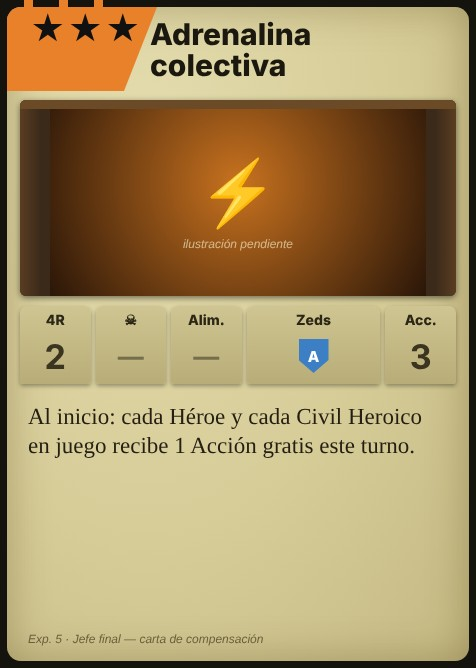
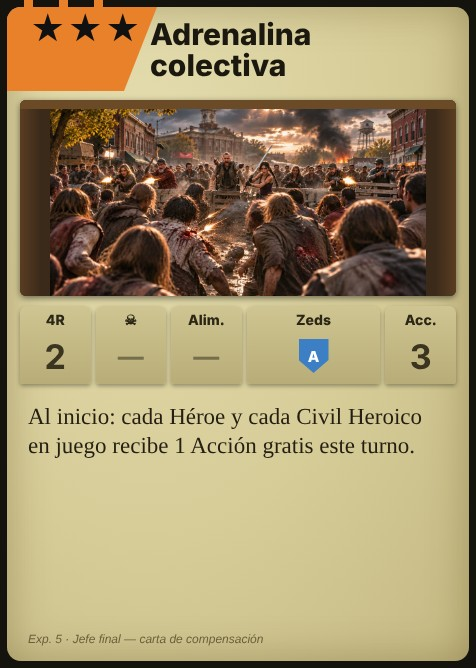
Exp. 5: ilustración de «Adrenalina colectiva»; BUILD_TIME, CHANGELOG y caché v79
Claude-Session: https://claude.ai/code/session_01KmRiLbWWzhUthpc2eQKnLk

Changed region(s): [[0.0882, 0.1497, 0.9118, 0.4491]]

diff --git a/sw.js b/sw.js
@@ -1,7 +1,7 @@
 /* Service worker: permite instalar la web como app y jugar sin conexión.
    Código (html/js/css): red primero, con copia local de reserva. Imágenes y audio: caché primero. */
 'use strict';
-const CACHE = 'doz3-v78';
+const CACHE = 'doz3-v79';
 const SHELL = ['./', 'index.html', 'style.css', 'manifest.webmanifest', 'icons/icon-192.png', 'icons/icon-512.png', 'assets/portada.jpg', 'assets/fondo_nueva.webp', 'assets/fondo_ranking.webp',
   'js/version.js', 'js/data.js', 'js/events.js', 'js/dest.js', 'js/evlog.js', 'js/preview.js', 'js/obituario.js', 'js/engine.js', 'js/game.js', 'js/phases.js', 'js/actions.js', 'js/cardtext.js', 'js/ui.js', 'js/anim.js',
   'js/expansions.js', 'js/expansions2.js', 'js/jefe.js', 'js/sfx.js', 'js/sound.js', 'js/opciones.js', 'js/voz.js', 'js/ost.js', 'assets/sonidos/letras/letras.js', 'assets/sonidos/efectos/sfx_disparo.mp3', 'assets/sonidos/efectos/sfx_disparo_largo.mp3', 'js/mapzoom.js', 'js/movil.js', 'js/seedcode.js', 'js/save.js', 'js/main.js', 'js/bot.js'];

diff --git a/js/version.js b/js/version.js
@@ -1,2 +1,2 @@
 /* Fecha y hora de la última build (hora de Madrid). Se actualiza con cada cambio publicado. */
-const BUILD_TIME = '2026-11-10 13:55';
+const BUILD_TIME = '2026-11-10 14:18';

diff --git a/CHANGELOG.md b/CHANGELOG.md
@@ -2,6 +2,11 @@
 
 Registro de cambios por publicación (push a `main`). Lo más reciente, arriba. Cada entrada lleva la misma fecha y hora que `BUILD_TIME` de `js/version.js`.
 
+## 2026-11-10 14:18
+
+### Cambios
+- **Exp. 5, «Adrenalina colectiva»:** ya lleva su ilustración definitiva (la carga conjunta tras la barricada). Caché v79.
+
 ## 2026-11-10 13:55
 
 ### Cambios
